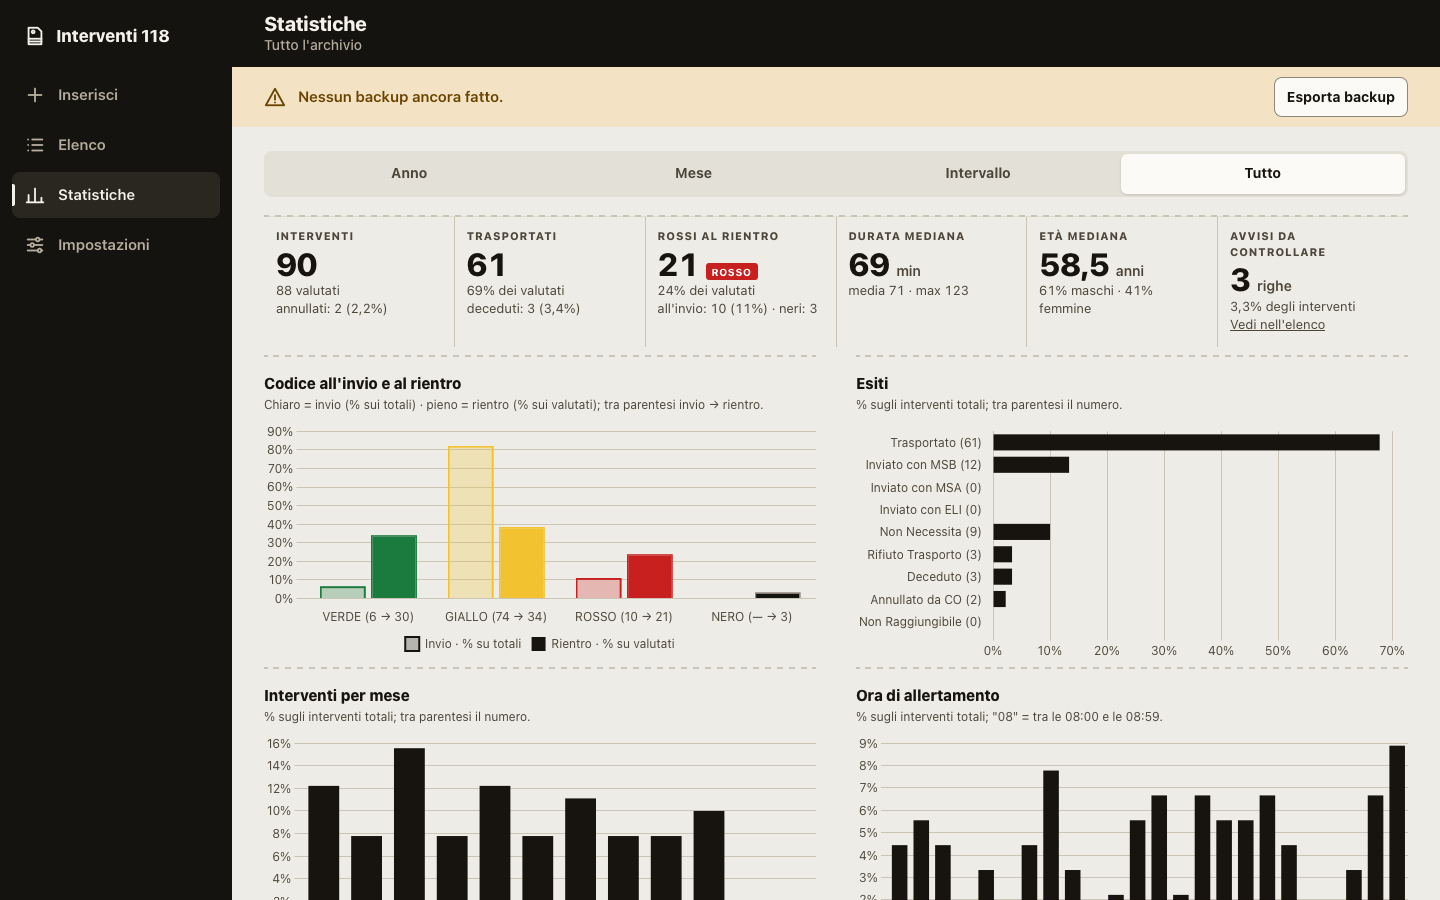
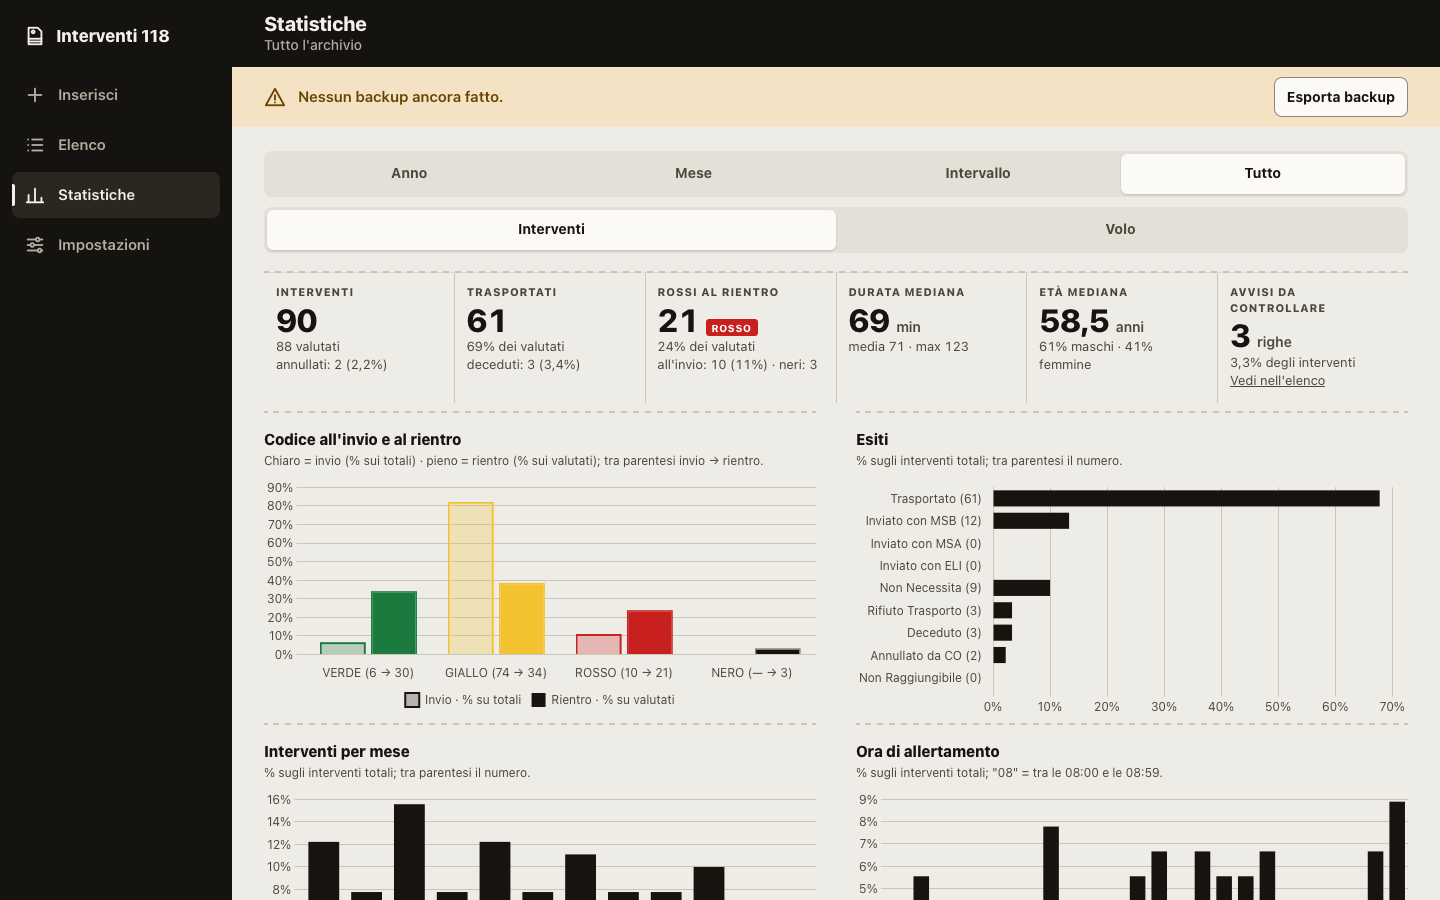
Statistiche: vista Volo con KPI, grafici e tabelle del foglio HEMS

diff --git a/js/ui/statistiche.js b/js/ui/statistiche.js
@@ -1,12 +1,15 @@
 // Statistiche dal vivo su un periodo: KPI, 6 grafici e 12 tabelle del foglio "Statistiche".
 import { stato, interventi } from '../stato.js';
 import { calcolaStatistiche } from '../core/statistiche.js';
+import { calcolaStatisticheVolo } from '../core/volo.js';
 import { isDataValida } from '../core/campi.js';
 import { h, riempi, icona, impostaBanda, codice, numero, conteggio, pct, pctGia, meseLungo, dataBreve } from './dom.js';
 import { caricaScript, CHART } from './file.js';
 import { impostaFiltri } from './elenco.js';
+import { disegnaVolo } from './volo.js';
 
 let periodo = null; // resta scelto finché l'app è aperta
+let vista = 'interventi'; // 'interventi' | 'volo', come il periodo
 let grafici = [];
 
 const anniDisponibili = () => [...new Set(interventi().map((r) => r.data).filter(isDataValida).map((d) => Number(d.slice(0, 4))))]
@@ -29,6 +32,14 @@ export function mostra(main) {
   periodo ??= anni.length ? { tipo: 'anno', anno: anni[0] } : { tipo: 'tutto' };
   const contenuto = h('div');
   const selettore = h('div', { class: 'periodo' });
+  const selettoreVista = h('div', { class: 'segmenti vista', role: 'group', 'aria-label': 'Vista' });
+
+  function disegnaVista() {
+    riempi(selettoreVista, ...[['interventi', 'Interventi'], ['volo', 'Volo']].map(([chiave, testo]) => h('button', {
+      type: 'button', 'aria-pressed': String(vista === chiave),
+      onclick: () => { vista = chiave; disegnaVista(); disegna(); },
+    }, testo)));
+  }
 
   function disegnaSelettore() {
     const segmenti = h('div', { class: 'segmenti', role: 'group', 'aria-label': 'Periodo' },
@@ -62,7 +73,7 @@ export function mostra(main) {
           h('input', { class: 'input', type: 'date', value: periodo.a, onchange: (e) => { periodo.a = e.target.value; disegna(); } })),
       );
     }
-    riempi(selettore, segmenti, valori.length ? h('div', { class: 'valori' }, valori) : null);
+    riempi(selettore, segmenti, valori.length ? h('div', { class: 'valori' }, valori) : null, selettoreVista);
   }
 
   async function disegna() {
@@ -76,17 +87,21 @@ export function mostra(main) {
         h('a', { class: 'bottone primario', href: '#/nuovo' }, icona('piu'), 'Nuovo intervento')));
       return;
     }
-    const s = calcolaStatistiche(stato.record, stato.liste, periodo);
     const tele = [];
-    riempi(contenuto,
-      kpi(s),
-      s.kpi.interventi === 0
-        ? h('div', { class: 'vuoto-stato' }, h('h2', {}, 'Nessun intervento in questo periodo'), h('p', {}, 'Scegli un altro anno, mese o intervallo.'))
-        : h('div', {},
-          h('div', { class: 'grafici' }, ...schedeGrafici(s, tele)),
-          h('h2', { class: 'titolo-dettagli' }, 'Dettagli'),
-          h('div', { class: 'tabelle' }, ...tabelle(s))),
-    );
+    if (vista === 'volo') {
+      riempi(contenuto, disegnaVolo(calcolaStatisticheVolo(stato.record, stato.liste, periodo), tele));
+    } else {
+      const s = calcolaStatistiche(stato.record, stato.liste, periodo);
+      riempi(contenuto,
+        kpi(s),
+        s.kpi.interventi === 0
+          ? h('div', { class: 'vuoto-stato' }, h('h2', {}, 'Nessun intervento in questo periodo'), h('p', {}, 'Scegli un altro anno, mese o intervallo.'))
+          : h('div', {},
+            h('div', { class: 'grafici' }, ...schedeGrafici(s, tele)),
+            h('h2', { class: 'titolo-dettagli' }, 'Dettagli'),
+            h('div', { class: 'tabelle' }, ...tabelle(s))),
+      );
+    }
     if (!tele.length) return;
     try {
       await caricaScript(CHART);
@@ -97,6 +112,7 @@ export function mostra(main) {
     }
   }
 
+  disegnaVista();
   disegnaSelettore();
   main.append(selettore, contenuto);
   disegna();
@@ -116,37 +132,45 @@ export function mostra(main) {
 
 // ---------------------------------------------------------------- KPI
 
+/** Una casella dei KPI: titolo, valore (con unità) e note sotto. */
+export const voceKpi = (titolo, valore, ...note) => h('div', {}, h('dt', {}, titolo),
+  h('dd', {}, h('div', { class: 'valore' }, ...valore), ...note.filter(Boolean).map((n) => h('div', { class: 'nota' }, n))));
+export const unita = (t) => h('span', { class: 'unita' }, t);
+
 function kpi(s) {
   const k = s.kpi;
-  const voce = (titolo, valore, ...note) => h('div', {}, h('dt', {}, titolo), h('dd', {}, h('div', { class: 'valore' }, ...valore), ...note.filter(Boolean).map((n) => h('div', { class: 'nota' }, n))));
-  const unita = (t) => h('span', { class: 'unita' }, t);
   return h('dl', { class: 'kpi' },
-    voce('Interventi', [conteggio(k.interventi)], `${conteggio(k.valutati)} valutati`, `annullati: ${k.annullati} (${pctGia(k.annullatiPct)})`),
-    voce('Trasportati', [conteggio(k.trasportati)], `${pctGia(k.trasportatiPct)} dei valutati`, `deceduti: ${k.deceduti} (${pctGia(k.decedutiPct)})`),
-    voce('Rossi al rientro', [conteggio(k.rossiRientro), codice('ROSSO')], `${pctGia(k.rossiRientroPct)} dei valutati`,
+    voceKpi('Interventi', [conteggio(k.interventi)], `${conteggio(k.valutati)} valutati`, `annullati: ${k.annullati} (${pctGia(k.annullatiPct)})`),
+    voceKpi('Trasportati', [conteggio(k.trasportati)], `${pctGia(k.trasportatiPct)} dei valutati`, `deceduti: ${k.deceduti} (${pctGia(k.decedutiPct)})`),
+    voceKpi('Rossi al rientro', [conteggio(k.rossiRientro), codice('ROSSO')], `${pctGia(k.rossiRientroPct)} dei valutati`,
       `all'invio: ${k.rossiInvio} (${pctGia(k.rossiInvioPct)}) · neri: ${k.neri}`),
-    voce('Durata mediana', [numero(k.durataMediana), unita('min')], k.durataMedia === null ? null : `media ${numero(k.durataMedia)} · max ${numero(k.durataMax)}`),
-    voce('Età mediana', [numero(k.etaMediana), unita('anni')], `${pctGia(k.maschiPct)} maschi · ${pctGia(k.femminePct)} femmine`),
-    voce('Avvisi da controllare', [conteggio(k.avvisi), unita(k.avvisi === 1 ? 'riga' : 'righe')], `${pctGia(k.avvisiPct)} degli interventi`,
+    voceKpi('Durata mediana', [numero(k.durataMediana), unita('min')], k.durataMedia === null ? null : `media ${numero(k.durataMedia)} · max ${numero(k.durataMax)}`),
+    voceKpi('Età mediana', [numero(k.etaMediana), unita('anni')], `${pctGia(k.maschiPct)} maschi · ${pctGia(k.femminePct)} femmine`),
+    voceKpi('Avvisi da controllare', [conteggio(k.avvisi), unita(k.avvisi === 1 ? 'riga' : 'righe')], `${pctGia(k.avvisiPct)} degli interventi`,
       k.avvisi ? h('a', { href: '#/elenco', onclick: () => impostaFiltri({ soloAvvisi: true, periodo: { ...periodo } }) }, 'Vedi nell\'elenco') : null),
   );
 }
 
 // ---------------------------------------------------------------- grafici
 
-const colore = (nome) => getComputedStyle(document.documentElement).getPropertyValue(nome).trim();
+export const colore = (nome) => getComputedStyle(document.documentElement).getPropertyValue(nome).trim();
 /** '#1b7a3e' -> 'rgba(27, 122, 62, 0.26)': Chart.js deve poter leggere il colore. */
 function trasparente(hex, alfa) {
   const n = parseInt(hex.replace('#', ''), 16);
   return `rgba(${(n >> 16) & 255}, ${(n >> 8) & 255}, ${n & 255}, ${alfa})`;
 }
-const percentuale = (v) => `${new Intl.NumberFormat('it-IT', { maximumFractionDigits: 1 }).format(v)}%`;
+const unDecimale = (v) => new Intl.NumberFormat('it-IT', { maximumFractionDigits: 1 }).format(v);
+const percentuale = (v) => `${unDecimale(v)}%`;
 
-/** legenda: stili neutri per le voci della legenda (fill/stroke), quando i colori delle barre variano per voce. */
-function configBarre({ etichette, serie, orizzontale = false, legenda = null, saltaEtichette = false }) {
+/**
+ * legenda: stili neutri per le voci della legenda (fill/stroke), quando i colori delle barre variano per voce.
+ * asse: 'pct' (valori in percento) oppure 'numero' (ore, missioni).
+ */
+export function configBarre({ etichette, serie, orizzontale = false, legenda = null, saltaEtichette = false, asse = 'pct' }) {
   const testo = colore('--inchiostro-2');
   const griglia = colore('--linea');
-  const assePct = { beginAtZero: true, grid: { color: griglia }, border: { display: false }, ticks: { color: testo, callback: (v) => percentuale(v) } };
+  const formato = asse === 'pct' ? percentuale : unDecimale;
+  const assePct = { beginAtZero: true, grid: { color: griglia }, border: { display: false }, ticks: { color: testo, callback: (v) => formato(v) } };
   const asseVoci = { grid: { display: false }, border: { color: griglia }, ticks: { color: testo, autoSkip: saltaEtichette, maxRotation: saltaEtichette ? 0 : 50 } };
   return {
     type: 'bar',
@@ -169,13 +193,13 @@ function configBarre({ etichette, serie, orizzontale = false, legenda = null, sa
             }),
           },
         },
-        tooltip: { callbacks: { label: (c) => `${c.dataset.label}: ${percentuale(c.parsed[orizzontale ? 'x' : 'y'] ?? 0)}` } },
+        tooltip: { callbacks: { label: (c) => `${c.dataset.label}: ${formato(c.parsed[orizzontale ? 'x' : 'y'] ?? 0)}` } },
       },
     },
   };
 }
 
-function schedaGrafico(tele, titolo, legenda, config, classe = '') {
+export function schedaGrafico(tele, titolo, legenda, config, classe = '') {
   const canvas = h('canvas', { role: 'img', 'aria-label': titolo });
   tele.push({ canvas, config });
   return h('figure', { class: `grafico ${classe}`, style: 'margin:0' }, h('h3', {}, titolo), h('figcaption', { class: 'legenda' }, legenda),
@@ -224,7 +248,7 @@ function schedeGrafici(s, tele) {
 // ---------------------------------------------------------------- tabelle
 
 /** colonne: [titolo, funzione(riga) -> contenuto, numerica?] */
-function tabella(titolo, nota, colonne, righe, { aperta = false, piede = null, zero = null } = {}) {
+export function tabella(titolo, nota, colonne, righe, { aperta = false, piede = null, zero = null } = {}) {
   return h('details', { class: 'blocco-tabella', open: aperta },
     h('summary', {}, titolo),
     h('div', { class: 'scorri' }, h('table', { class: 'tabella' },

diff --git a/js/ui/volo.js b/js/ui/volo.js
@@ -1,0 +1,88 @@
+// Vista "Volo" delle statistiche: KPI, 3 grafici e 5 tabelle di volo del foglio "Statistiche" dell'Excel HEMS.
+import { h, conteggio, numero, pct, pctGia, oreMinuti } from './dom.js';
+import { colore, configBarre, schedaGrafico, tabella, unita, voceKpi } from './statistiche.js';
+
+const missioni = (n) => `${conteggio(n)} ${n === 1 ? 'missione' : 'missioni'}`;
+
+function kpi(s) {
+  const k = s.kpi;
+  return h('dl', { class: 'kpi quattro' },
+    voceKpi('Missioni', [conteggio(k.missioni)], k.perMezzo.map((m) => `${m.voce} ${conteggio(m.n)}`).join(' · ')),
+    voceKpi('Ore di volo', [oreMinuti(k.minutiVolo)], `su ${missioni(k.conTempo)} con tempo`),
+    voceKpi('Volo medio', [numero(k.voloMedio), unita('min')], k.voloMediana === null ? null : `mediana ${numero(k.voloMediana)} min`),
+    voceKpi('Con manovre', [conteggio(k.conManovre)], `${pctGia(k.conManovrePct)} delle missioni`),
+  );
+}
+
+function grafici(s, tele) {
+  const ink = colore('--inchiostro');
+  return [
+    schedaGrafico(tele, 'Ore di volo per mese', 'Ore di volo nel mese; tra parentesi le missioni.',
+      configBarre({
+        etichette: s.mesi.map((m) => `${m.voce} (${m.missioni})`),
+        serie: [{ label: 'Ore di volo', data: s.mesi.map((m) => m.oreGrafico), backgroundColor: ink }],
+        asse: 'numero',
+      })),
+    schedaGrafico(tele, 'Manovre', '% delle missioni in elicottero; tra parentesi il numero.',
+      configBarre({
+        etichette: s.manovre.voci.map((m) => `${m.codice} (${m.n})`),
+        serie: [{ label: 'Missioni', data: s.manovre.voci.map((m) => m.pct * 100), backgroundColor: ink }],
+        orizzontale: true,
+      })),
+    schedaGrafico(tele, 'Missioni per mezzo', 'Numero di missioni.',
+      configBarre({
+        etichette: s.mezzi.map((m) => m.voce),
+        serie: [{ label: 'Missioni', data: s.mezzi.map((m) => m.n), backgroundColor: ink }],
+        asse: 'numero',
+      })),
+  ];
+}
+
+function tabelle(s) {
+  const t = s.tempo;
+  const voce = (titolo) => [titolo, (x) => x.voce];
+  const n = (titolo = 'Missioni', k = 'n') => [titolo, (x) => (x[k] === null ? '' : conteggio(x[k])), true];
+  const p = (titolo = '%') => [titolo, (x) => (x.pct === null ? '' : pct(x.pct)), true];
+  const ore = ['Ore volo', (x) => (x.minutiVolo === null ? '' : oreMinuti(x.minutiVolo)), true];
+  const medio = ['Volo medio (min)', (x) => numero(x.voloMedio), true];
+  const vuota = (k = 'n') => (x) => !x[k];
+  return [
+    tabella('V1 · Tempo di volo',
+      `Base: ${missioni(s.basi.conTempo)} con tempo di volo. Comprende il rientro in base: può superare la durata della missione.`,
+      [voce('Indicatore'), ['Valore', (x) => x.v, true]], [
+        { voce: 'Totale (ore:minuti)', v: oreMinuti(t.totaleMinuti) },
+        { voce: 'Media (min)', v: numero(t.media) },
+        { voce: 'Mediana (min)', v: numero(t.mediana) },
+        { voce: 'Minimo (min)', v: numero(t.minimo) },
+        { voce: 'Massimo (min)', v: numero(t.massimo) },
+      ], { aperta: true }),
+    tabella('V2 · Per mezzo', '% sulle missioni in elicottero · volo medio sulle missioni con tempo.',
+      [voce('Mezzo'), n(), p(), ore, medio, n('Con tempo', 'conTempo')], s.mezzi, { zero: vuota() }),
+    tabella('V3 · Tipo di missione', '% sulle missioni con il tipo compilato.',
+      [voce('Tipo'), n(), p(), ore],
+      [...s.tipi.voci, { voce: 'Non compilato', n: s.tipi.nonCompilato, pct: null, minutiVolo: null }], { zero: vuota() }),
+    tabella('V4 · Manovre', '% sulle missioni in elicottero. Una missione può avere più manovre.',
+      [voce('Manovra'), n(), p()], [
+        ...s.manovre.voci.map((m) => ({ voce: `${m.codice} · ${m.nome}`, n: m.n, pct: m.pct })),
+        { voce: 'Almeno una manovra', ...s.manovre.almenoUna },
+        { voce: 'Più di una manovra', ...s.manovre.piuDiUna },
+        { voce: 'Nessuna manovra', ...s.manovre.nessuna },
+      ], { zero: vuota() }),
+    tabella('V5 · Per mese', null,
+      [voce('Mese'), n('Missioni', 'missioni'), ore, medio, n('Con manovre', 'conManovre')], s.mesi, { zero: vuota('missioni') }),
+  ];
+}
+
+/** La vista intera, oppure il messaggio se nel periodo non ci sono missioni in elicottero. */
+export function disegnaVolo(s, tele) {
+  if (!s.basi.missioni) {
+    return h('div', { class: 'vuoto-stato' },
+      h('h2', {}, 'Nessuna missione in elicottero in questo periodo'),
+      h('p', {}, 'La vista Volo conta gli interventi con mezzo V-ECHO o T-ECHO. Scegli un altro anno, mese o intervallo.'));
+  }
+  return h('div', {},
+    kpi(s),
+    h('div', { class: 'grafici' }, ...grafici(s, tele)),
+    h('h2', { class: 'titolo-dettagli' }, 'Dettagli'),
+    h('div', { class: 'tabelle' }, ...tabelle(s)));
+}

diff --git a/css/app.css b/css/app.css
@@ -436,6 +436,7 @@ main#vista.con-barra { padding-bottom: calc(var(--h-schede) + env(safe-area-inse
 .segmenti button[aria-pressed="true"] { background: var(--carta); color: var(--inchiostro); box-shadow: 0 1px 3px rgb(0 0 0 / .14); }
 .periodo .valori { display: flex; gap: 10px; flex-wrap: wrap; }
 .periodo .valori > * { flex: 1 1 140px; }
+.segmenti.vista { grid-template-columns: repeat(2, minmax(0, 1fr)); }
 
 .kpi {
   display: grid; grid-template-columns: repeat(2, minmax(0, 1fr)); gap: 1px;
@@ -450,6 +451,8 @@ main#vista.con-barra { padding-bottom: calc(var(--h-schede) + env(safe-area-inse
 .kpi .valore .cod { font-size: .625rem; vertical-align: middle; }
 @media (min-width: 700px) { .kpi { grid-template-columns: repeat(3, minmax(0, 1fr)); } }
 @media (min-width: 1200px) { .kpi { grid-template-columns: repeat(6, minmax(0, 1fr)); } }
+@media (min-width: 700px) { .kpi.quattro { grid-template-columns: repeat(2, minmax(0, 1fr)); } }
+@media (min-width: 1200px) { .kpi.quattro { grid-template-columns: repeat(4, minmax(0, 1fr)); } }
 
 .grafici { display: grid; grid-template-columns: minmax(0, 1fr); gap: 0 40px; margin-bottom: 20px; }
 .grafico { border-top: 2px dashed var(--linea); padding: 16px 0 6px; min-width: 0; }

diff --git a/js/ui/dom.js b/js/ui/dom.js
@@ -68,6 +68,11 @@ export const conteggio = (n) => intero.format(n);
 export const pct = (f) => (f === null || f === undefined ? '—' : `${decimale.format(f * 100)}%`);
 /** numero già in percento (KPI arrotondati come nell'Excel) -> "1,4%" */
 export const pctGia = (p) => `${decimale.format(p)}%`;
+/** minuti -> "2:45", come il formato [h]:mm delle ore di volo nell'Excel HEMS */
+export function oreMinuti(minuti) {
+  const m = Math.round(minuti);
+  return `${Math.floor(m / 60)}:${String(m % 60).padStart(2, '0')}`;
+}
 
 const MESI_LUNGHI = ['gennaio', 'febbraio', 'marzo', 'aprile', 'maggio', 'giugno', 'luglio', 'agosto', 'settembre', 'ottobre', 'novembre', 'dicembre'];
 const MESI_BREVI = ['gen', 'feb', 'mar', 'apr', 'mag', 'giu', 'lug', 'ago', 'set', 'ott', 'nov', 'dic'];

diff --git a/tests/dom.test.js b/tests/dom.test.js
@@ -1,0 +1,9 @@
+import { test } from 'node:test';
+import assert from 'node:assert/strict';
+import { oreMinuti } from '../js/ui/dom.js';
+
+test('ore di volo in ore:minuti, come il formato [h]:mm dell\'Excel', () => {
+  assert.equal(oreMinuti(165), '2:45');
+  assert.equal(oreMinuti(0), '0:00');
+  assert.equal(oreMinuti(600), '10:00');
+});

diff --git a/sw.js b/sw.js
@@ -27,6 +27,7 @@ const FILE = [
   'js/ui/impostazioni.js',
   'js/ui/inserimento.js',
   'js/ui/statistiche.js',
+  'js/ui/volo.js',
   'vendor/chart-4.5.1.umd.min.js',
   'vendor/xlsx-0.20.3.full.min.js',
   'icons/icon.svg',
